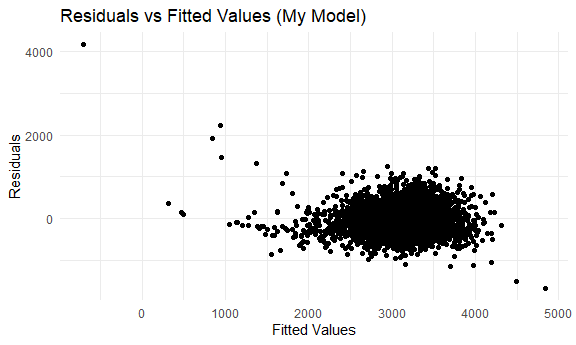
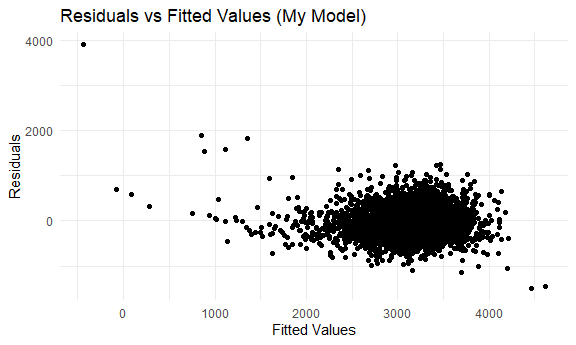
some change on my hw

diff --git a/p8105_hw6_yc4584.md b/p8105_hw6_yc4584.md
@@ -442,7 +442,7 @@ bw_df =
 
 ``` r
 model_1my =
-  lm(bwt ~ blength + gaweeks + fincome + smoken, data = bw_df)
+  lm(bwt ~ blength + gaweeks + fincome + smoken + blength * gaweeks * fincome * smoken , data = bw_df)
 
 model_2 =
   lm(bwt ~ blength + gaweeks, data = bw_df)
@@ -455,8 +455,8 @@ Describe my models: - Model 1: This model includes the variables
 blength, gaweeks, fincome, and smoken. The response variable is child’s
 birthweight. The model aims to predict birth weight based on baby’s
 length at birth (centimeteres), gestational age in weeks, family monthly
-income (in hundreds, rounded), and average number of cigarettes smoked
-per day during pregnancy using linear model.
+income (in hundreds, rounded), average number of cigarettes smoked per
+day during pregnancy and their interactions using linear model.
 
 ## Then, I will show a plot of model residuals against fitted values
 
@@ -496,7 +496,7 @@ bw_cv_df =
 bw_cv_rmse_plot =
   bw_cv_df |> 
   mutate(
-    model_1my = map(train, \(x) lm(bwt ~ blength + gaweeks + fincome + smoken, data = x)),
+    model_1my = map(train, \(x) lm(bwt ~ blength + gaweeks + fincome + smoken + blength * gaweeks * fincome * smoken , data = x)),
     model_2 = map(train, \(x) lm(bwt ~ blength + gaweeks, data = x)),
     model_3 = map(train, \(x) lm(bwt ~ bhead + blength + babysex + bhead * blength * babysex, data = x))
   ) |> 
@@ -522,12 +522,13 @@ bw_cv_rmse_plot
 
 As we all know, lower RMSE indicates better predictive accuracy. For my
 model, the RMSE distribution is relatively wide, ranging approximately
-from 300 to 360, which indicates moderate variability in predictive
+from 300 to 380, which indicates moderate variability in predictive
 accuracy across cross-validation samples. For model 2, the distribution
-is similar as my model, which add two more variables fincome and smoken.
-This suggests that including additional predictors in my model does not
-significantly improve predictive performance. For model 3, the RMSE
-distribution is narrower and shifted lower, with a range of
+of my model is similar as model 2. In my model, I added two more
+variables fincome and smoken and the interactions between four
+variables. This suggests that including additional predictors in my
+model does not improve much of the predictive performance. For model 3,
+the RMSE distribution is narrower and shifted lower, with a range of
 approximately 270 to 315, which indicates better predictive accuracy
 compared to the other models and the potential value of including
 interactions between head circumference, length, and sex in the model.
